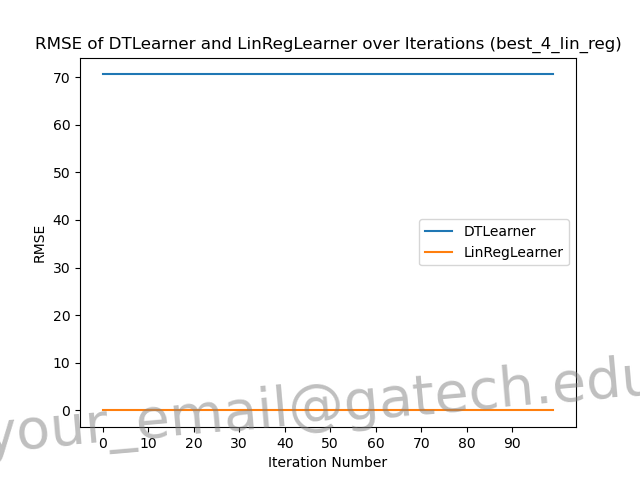
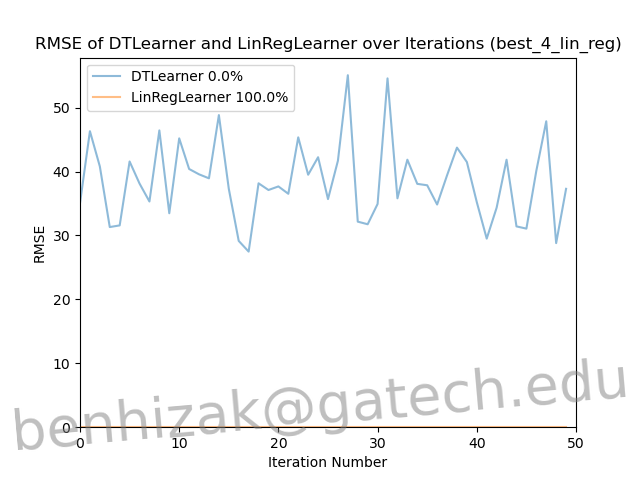
fixed porject 4 for high % cance of succeeding with dtlearner

diff --git a/ML4T/defeat_learners/gen_data.py b/ML4T/defeat_learners/gen_data.py
@@ -21,7 +21,7 @@ GT honor code violation.
   		  	   		 	   		  		  		    	 		 		   		 		  
 -----do not edit anything above this line---  		  	   		 	   		  		  		    	 		 		   		 		  
   		  	   		 	   		  		  		    	 		 		   		 		  
-Student Name: Tucker Balch (replace with your name)  		  	   		 	   		  		  		    	 		 		   		 		  
+Student Name: Tommy Cheng (replace with your name)  		  	   		 	   		  		  		    	 		 		   		 		  
 GT User ID: tcheng99 (replace with your User ID)  		  	   		 	   		  		  		    	 		 		   		 		  
 GT ID: 903967530 (replace with your GT ID)  		  	   		 	   		  		  		    	 		 		   		 		  
 """  		  	   		 	   		  		  		    	 		 		   		 		  
@@ -61,56 +61,57 @@ def best_4_lin_reg(seed=1489683273):
         x[i, 0] = np.random.random() * 100
         x[i, 1] = np.random.random() * 100
         y[i] = 5*x[i, 0] + 2*x[i, 1]
-    return x, y  		  	   		 	   		  		  		    	 		 		   		 		  
-  		  	   		 	   		  		  		    	 		 		   		 		  
-  		  	   		 	   		  		  		    	 		 		   		 		  
-def best_4_dt(seed=1489683273):  		  	   		 	   		  		  		    	 		 		   		 		  
+    return x, y
+
+
+def best_4_dt(seed=1489683273):
     """  		  	   		 	   		  		  		    	 		 		   		 		  
     Returns data that performs significantly better with DTLearner than LinRegLearner.  		  	   		 	   		  		  		    	 		 		   		 		  
     The data set should include from 2 to 10 columns in X, and one column in Y.  		  	   		 	   		  		  		    	 		 		   		 		  
     The data should contain from 10 (minimum) to 1000 (maximum) rows.  		  	   		 	   		  		  		    	 		 		   		 		  
-  		  	   		 	   		  		  		    	 		 		   		 		  
-    :param seed: The random seed for your data generation.  		  	   		 	   		  		  		    	 		 		   		 		  
-    :type seed: int  		  	   		 	   		  		  		    	 		 		   		 		  
-    :return: Returns data that performs significantly better with DTLearner than LinRegLearner.  		  	   		 	   		  		  		    	 		 		   		 		  
-    :rtype: numpy.ndarray  		  	   		 	   		  		  		    	 		 		   		 		  
-    """  		  	   		 	   		  		  		    	 		 		   		 		  
-    np.random.seed(seed)  		  	   		 	   		  		  		    	 		 		   		 		  
+
+    :param seed: The random seed for your data generation.
+    :type seed: int
+    :return: Returns data that performs significantly better with DTLearner than LinRegLearner.
+    :rtype: numpy.ndarray
+    """
+    np.random.seed(seed)
     x = np.zeros((300, 4))
-    y = np.random.random(size=(300,)) * 200 - 100
+    y = np.random.random(size=(300,))
 
     for i in range(300):
-        x[i, 0] = np.random.random() * 100
-        x[i, 1] = 5 * np.random.random() * 100
-        x[i, 2] = -2 * np.random.random() * 100
-        x[i, 3] = 10 * np.random.random() * 100
+        x[i, 0] = np.random.random()
+        x[i, 1] = 5 * np.random.random()
+        x[i, 2] = -2 * np.random.random()
+        x[i, 3] = 10 * np.random.random()
         # #
-        if i <= 100:
-            x[i, 0] = np.random.random() * 1
-            x[i, 1] = 5 * np.random.random() * 1
-            x[i, 2] = 2 * np.random.random() * 1
-            x[i, 3] = 10 * np.random.random() * 1
+        # if i <= 100:
+        #     x[i, 0] = np.random.random() * 1
+        #     x[i, 1] = 5 * np.random.random() * 1
+        #     x[i, 2] = 2 * np.random.random() * 1
+        #     x[i, 3] = 10 * np.random.random() * 1
+        #
+        #     y[i] = math.log(x[i, 0]) + math.log(x[i,1]) + math.log(x[i, 2])
+        # elif (i > 100 and i <= 200):
+        #     x[i, 0] = np.random.random() * 50
+        #     x[i, 1] = 5 * np.random.random() * 50
+        #     x[i, 2] = -2 * np.random.random() * 50
+        #     x[i, 3] = 10 * np.random.random() * 50
+        #     y[i] = 1/-1* pow(x[i, 0],2 ) + 1/4*x[i,1] + 1/pow(x[i, 2], 2)
+        # else:
+        #     x[i, 0] = np.random.random() * 500
+        #     x[i, 1] = 5 * np.random.random() * 500
+        #     x[i, 2] = -2 * np.random.random() * 500
+        #     x[i, 3] = 10 * np.random.random() * 500
+        #     y[i] = pow(x[i, 0], 3) + 10*x[i,1] + pow(x[i, 2], 3)
+        x[i, 0] = pow(x[i, 0], 2)
+        x[i, 1] = pow(x[i, 1], 4)
+        # x[i, 2] = pow(x[i, 2], 6)
 
-            y[i] = math.log(x[i, 0]) + math.log(x[i,1]) + math.log(x[i, 2])
-        elif (i > 100 and i <= 200):
-            x[i, 0] = np.random.random() * 50
-            x[i, 1] = 5 * np.random.random() * 50
-            x[i, 2] = -2 * np.random.random() * 50
-            x[i, 3] = 10 * np.random.random() * 50
-            y[i] = 1/-1* pow(x[i, 0],2 ) + 1/4*x[i,1] + 1/pow(x[i, 2], 2)
-        else:
-            x[i, 0] = np.random.random() * 500
-            x[i, 1] = 5 * np.random.random() * 500
-            x[i, 2] = -2 * np.random.random() * 500
-            x[i, 3] = 10 * np.random.random() * 500
-            y[i] = pow(x[i, 0], 3) + 10*x[i,1] + pow(x[i, 2], 3)
+        y[i] = x[i, 0] * x[i, 1]
+    return x, y
 
 
-
-
-    return x, y  		  	   		 	   		  		  		    	 		 		   		 		  
-  		  	   		 	   		  		  		    	 		 		   		 		  
-  		  	   		 	   		  		  		    	 		 		   		 		  
 def author():  		  	   		 	   		  		  		    	 		 		   		 		  
     """  		  	   		 	   		  		  		    	 		 		   		 		  
     :return: The GT username of the student  		  	   		 	   		  		  		    	 		 		   		 		  

diff --git a/ML4T/defeat_learners/benhizak_test.py b/ML4T/defeat_learners/benhizak_test.py
@@ -1,8 +1,5 @@
 # This script is shared with permission of our TAs for CS6601 ML4T Fall 2024
 # it should help you compare the performance of DTLearner and LinRegLearner
-# feel free change this script as you see fit
-# the scrip will generate two images best_4_dt.png best_4_lin_reg.png 
-
 
 import numpy as np
 import matplotlib.pyplot as plt
@@ -45,12 +42,26 @@ def evaluate_learners(num_iterations, data_gen_func, func_name):
         # Test LinRegLearner
         y_pred_lr = linreg_learner.query(X_test)
         rmse_lr.append(calculate_rmse(y_test, y_pred_lr))
+        
+        #keep percentage of which one has lower rmse
+        dt_better = sum([1 for i in range(len(rmse_dt)) if rmse_dt[i] < rmse_lr[i]]) / len(rmse_dt)
+        lr_better = sum([1 for i in range(len(rmse_lr)) if rmse_lr[i] < rmse_dt[i]]) / len(rmse_lr)
+        percent_deter_better = dt_better / (dt_better + lr_better)
+        percent_lin_better = lr_better / (dt_better + lr_better)        
+        
+        
 
-    # Plot the results
-    plt.plot(range(num_iterations), rmse_dt, label='DTLearner')
-    plt.plot(range(num_iterations), rmse_lr, label='LinRegLearner')
+    # Plot the results (scatter plot)
+    # plt.scatter(range(num_iterations), rmse_dt, label=f'DTLearner {percent_deter_better:.1%}', alpha=0.5, s=3)
+    # plt.scatter(range(num_iterations), rmse_lr, label=f'LinRegLearner {percent_lin_better:.1%}', alpha=0.5, s=3)
+    
+    # Plot the results (line plot)
+    plt.plot(range(num_iterations), rmse_dt, label=f'DTLearner {percent_deter_better:.1%}', alpha=0.5)
+    plt.plot(range(num_iterations), rmse_lr, label=f'LinRegLearner {percent_lin_better:.1%}', alpha=0.5)
     #make x axis integer
-    plt.xticks(range(0, num_iterations, 10))
+    # plt.xticks(range(0, num_iterations, 10))
+    plt.xlim(0, num_iterations)
+    plt.ylim(0)
     
     plt.xlabel('Iteration Number')
     plt.ylabel('RMSE')
@@ -60,7 +71,7 @@ def evaluate_learners(num_iterations, data_gen_func, func_name):
     
     plt.text(
         0.5, .15,               # Position in the plot (x, y in data coordinates)
-        'your_email@gatech.edu', # Watermark text
+        'benhizak@gatech.edu', # Watermark text
         fontsize=40,             # Font size
         color='gray',            # Text color
         alpha=0.5,               # Transparency level
@@ -69,11 +80,33 @@ def evaluate_learners(num_iterations, data_gen_func, func_name):
         rotation=5,             # Rotation of the text (in degrees)
         transform=plt.gcf().transFigure  # Use figure coordinates for placement
     )
-    # plt.savefig(f'{func_name}.png')
-    plt.show()
+    plt.savefig(f'{func_name}.png')
     plt.close()
+    
+    
+    #create another graph that shows the percentage of time each learner is better
+    plt.bar(['DTLearner', 'LinRegLearner'], [dt_better, lr_better])
+    plt.ylim(0, 1)
+    plt.ylabel('Percentage of Time Better')
+    plt.title(f'Percentage of Time Each Learner is Better ({func_name})')
+    plt.savefig(f'{func_name}_percent.png')
+    plt.close()
+    
+    
+def test_seed_consistency(data_gen_func, seed, num_tests):
+    results = [data_gen_func(seed) for _ in range(num_tests)]
+    for i in range(1, num_tests):
+        assert np.array_equal(results[0][0], results[i][0]), "X values are not consistent"
+        assert np.array_equal(results[0][1], results[i][1]), "Y values are not consistent"
+    print(f"Seed consistency test passed for {data_gen_func.__name__}\t\txxwith seed {seed}")
 
 if __name__ == "__main__":
-    num_iterations = 100
+    num_iterations = 50
     evaluate_learners(num_iterations, gen_data.best_4_lin_reg, 'best_4_lin_reg')
     evaluate_learners(num_iterations, gen_data.best_4_dt, 'best_4_dt')
+    NUM_TESTS_SEED = 3
+    # Test seed consistency
+    for i in range(20):
+        seed = np.random.randint(1, 1000000)
+        test_seed_consistency(gen_data.best_4_lin_reg, seed, NUM_TESTS_SEED)
+        test_seed_consistency(gen_data.best_4_dt, seed, NUM_TESTS_SEED)
